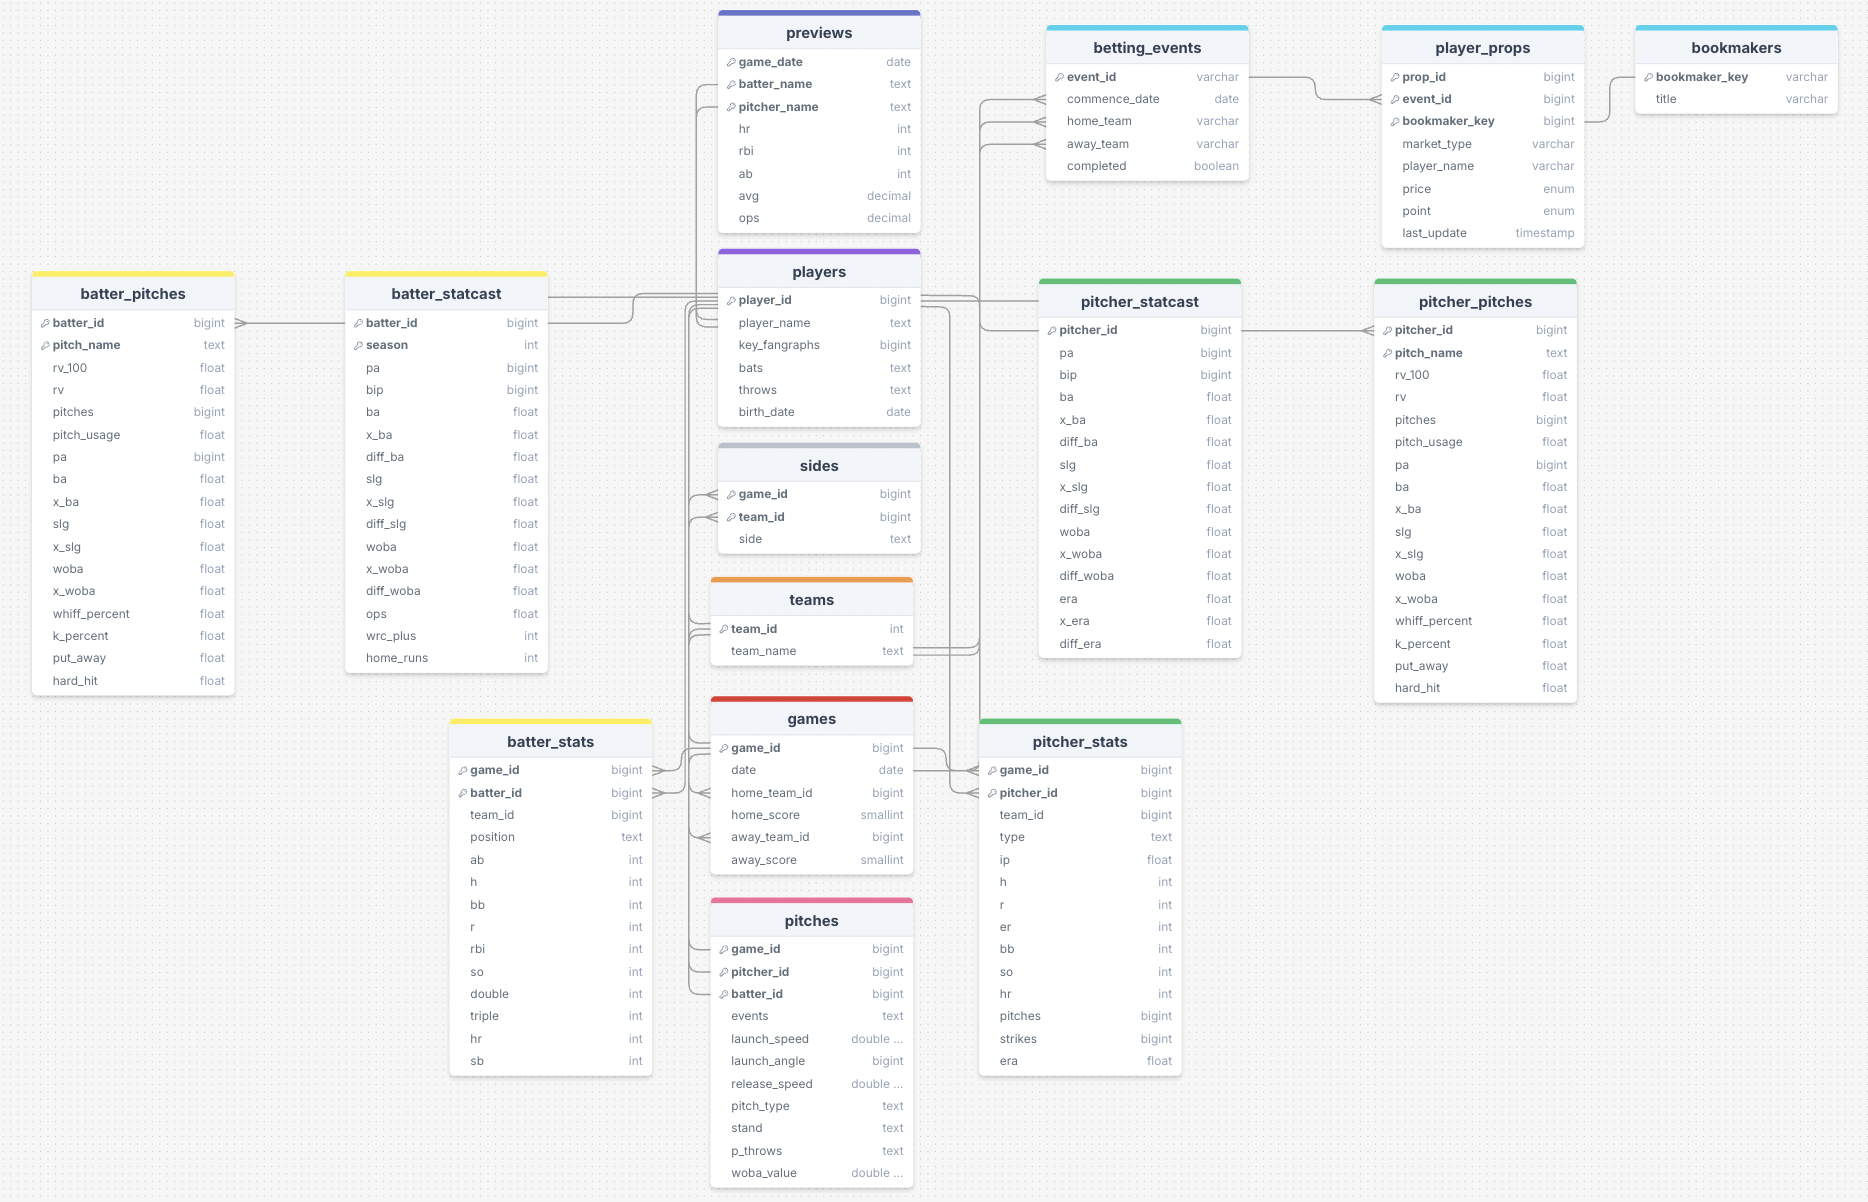
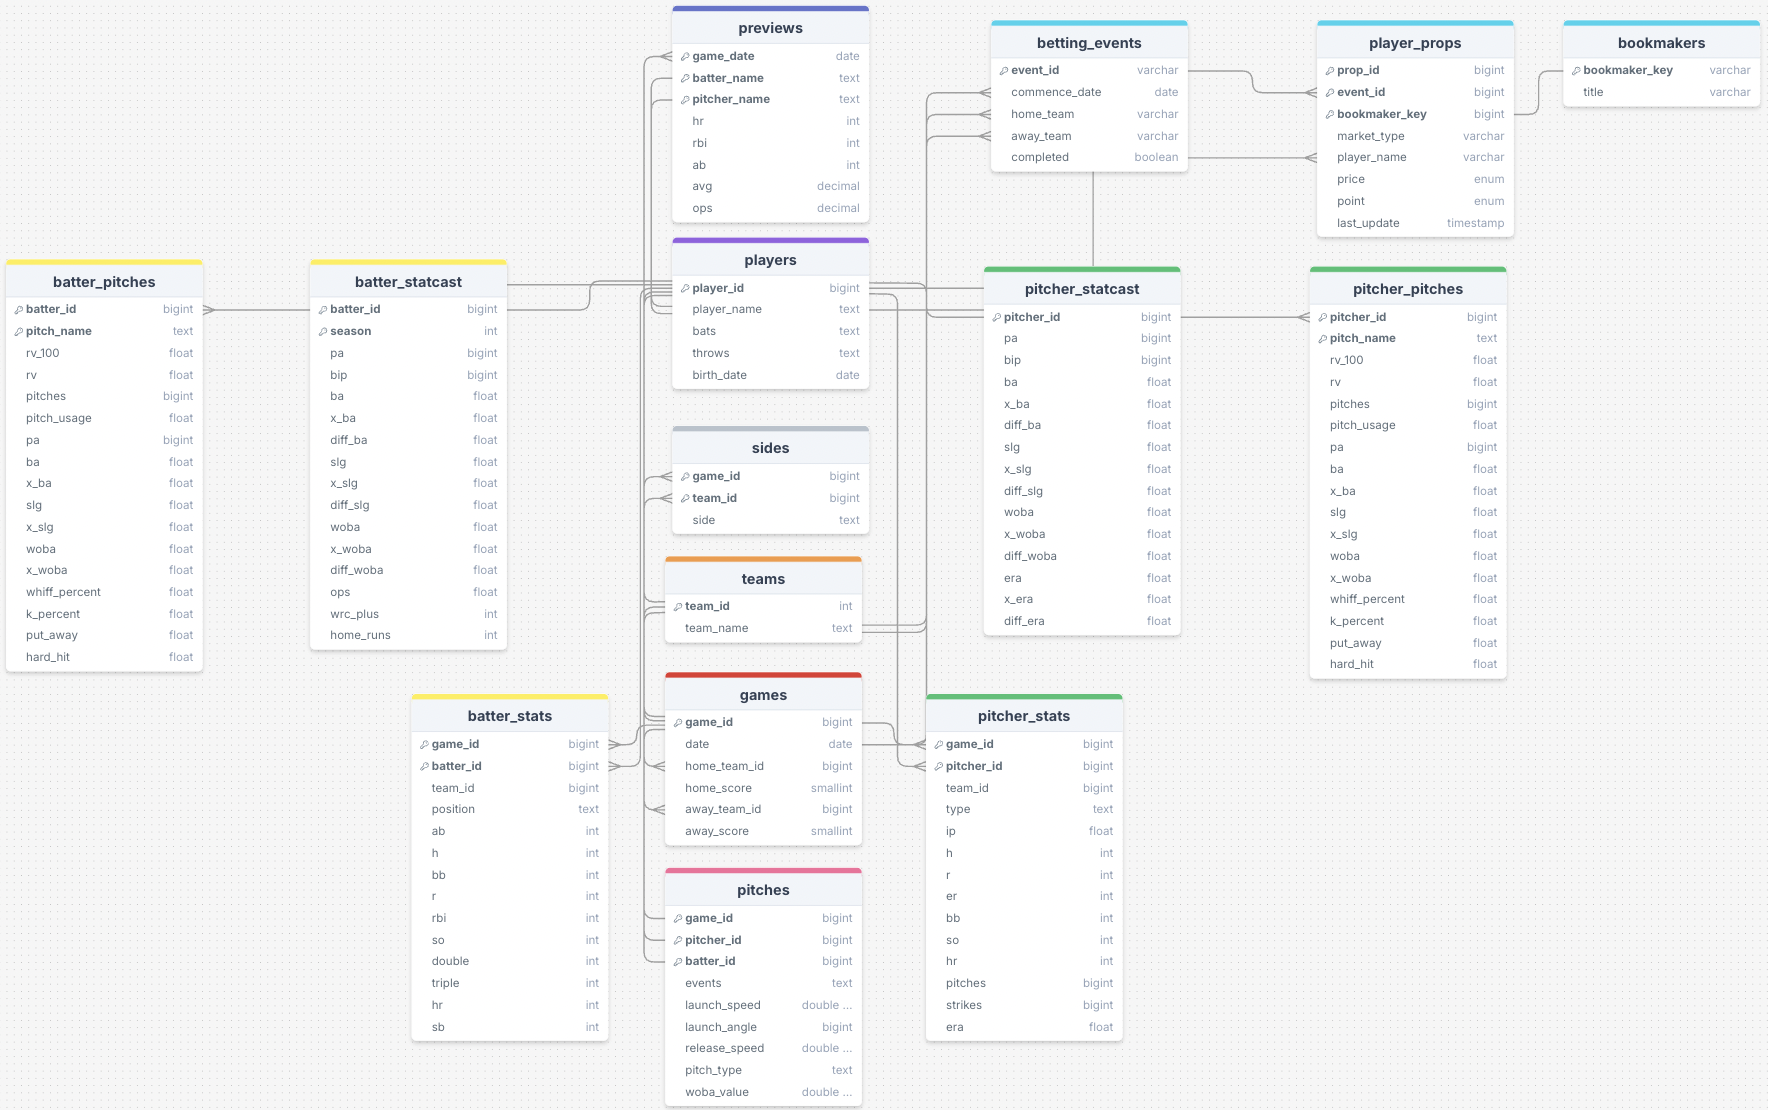
Built site for gh-pages

diff --git a/index.html b/index.html
@@ -72,6 +72,7 @@ div.csl-indent {
 <meta name="citation_reference" content="citation_title=A systematic review of machine learning in sports betting: Techniques, challenges, and future directions;,citation_abstract=Comprehensive review of ML applications in sports betting across multiple sports. Found that ensemble methods consistently outperform single models, with particular success in combining different algorithm types. For baseball specifically, identified that Markov processes and machine learning algorithms to predict pitch types and game outcomes show promise, emphasizing detailed pitch data importance.;,citation_author=René Manassé Galekwa;,citation_author=undefined colleagues;,citation_publication_date=2024;,citation_cover_date=2024;,citation_year=2024;,citation_fulltext_html_url=https://arxiv.org/html/2410.21484v1;,citation_journal_title=arXiv preprint arXiv:2410.21484;">
 <meta name="citation_reference" content="citation_title=MLB game outcome prediction using machine learning;,citation_abstract=Investigated MLB game outcome prediction using random forests and XGBoost with historical Retrosheet data (1930-2016). Achieved 55.52% accuracy in predicting game outcomes as binary classification using XGBoost with season data only, outperforming random guessing and simple home team prediction.;,citation_author=T. Elfrink;,citation_publication_date=2018;,citation_cover_date=2018;,citation_year=2018;,citation_publisher=University of Pennsylvania;">
 <meta name="citation_reference" content="citation_title=Efficient spread betting markets: A literature review;,citation_abstract=Are simple trading strategies profitable? It is a question that has been on the minds of academics and practitioners for decades. In this paper, we review the longstanding literature on trading strategies in spread betting (also known as handicap betting), a popular sports betting microstructure. We review over 600 strategy implementations and find that market efficiency and systematic misperceptions are not mutually exclusive per se. Predictable glitches occur, but they are too small to be profitably exploited which is consistent with efficient markets.;,citation_author=Jonas Vandenbruaene;,citation_author=Jan Annaert;,citation_author=Marc De Ceuster;,citation_publication_date=2022;,citation_cover_date=2022;,citation_year=2022;,citation_fulltext_html_url=https://journals.sagepub.com/doi/10.1177/15270025211071042;,citation_issue=4;,citation_doi=10.1177/15270025211071042;,citation_issn=1527-0025;,citation_volume=23;,citation_journal_title=Journal of Sports Economics;">
+<meta name="citation_reference" content="citation_title=Social and legal costs of compulsive gambling;,citation_abstract=This article examines the broader societal consequences of compulsive gambling, including legal costs, lost productivity, bankruptcies, and increased demand for social services. The authors estimate that a small proportion of problem gamblers are responsible for a disproportionate share of industry profits, reinforcing concerns about the ethics and sustainability of legalized gambling. The paper argues that policymakers and stakeholders must account for these externalities when evaluating the expansion of gambling markets.;,citation_author=William N. Thompson;,citation_author=Ricardo Gazel;,citation_author=Dan Rickman;,citation_publication_date=1996;,citation_cover_date=1996;,citation_year=1996;,citation_fulltext_html_url=https://www.researchgate.net/publication/249232485_Social_and_Legal_Costs_of_Compulsive_Gambling;,citation_issue=1;,citation_doi=10.1089/glr.1997.1.81;,citation_volume=1;,citation_journal_title=Gaming Law Review;">
 </head>
 
 <body class="quarto-light"><script id="quarto-html-before-body" type="application/javascript">
@@ -357,7 +358,7 @@ div.csl-indent {
 <h1>Introduction</h1>
 <p>A core principle of financial independence is the ability to generate passive income– leveraging existing capital to create returns with minimal ongoing effort. Traditional strategies include investing in dividend-paying stocks, exchange-traded funds (ETFs), or income-generating real estate. While these approaches offer relatively stable long-term gains, some investors have begun exploring alternative, higher-risk opportunities such as sports betting. Though more volatile, betting markets can offer the potential for faster and higher returns, raising the question: can a data-driven approach to betting, particularly in Major League Baseball (MLB), serve as a viable income stream?</p>
 <p>Baseball is a team sport played between two sides of nine players, where the goal is to score runs by hitting a pitched ball and advancing around four bases. Teams alternate between offense (batting) and defense (pitching and fielding), with each half-inning ending after three outs. A standard game consists of nine innings. While the rules are relatively simple, modern baseball is highly strategic and data-driven. Teams constantly analyze player matchups, pitching tendencies, and situational probabilities to gain an edge, which is exactly what makes the sport so appealing for sports betting as well.</p>
-<p>With the rise of advanced statistics and real-time data, bettors now have a wide range of wagering options. These include moneylines (who wins the game), over/unders (total runs scored), and player props like total bases, which track how many bases a player earns through hits in a given game. Despite the availablity of data, many sports bettors rely on gut and intuition but it has proved to be a losing strategy for most. Compounding this challenge is the fact that sportsbooks maintain a built-in edge through the way odds are structured. For example, even in an evenly matched game, both teams would be listed at -110 odds instead of +100. This means a $100 winning bet would return just $90.90 in profit, rather than $100, creating a margin that favors the sportsbook. Thus, users have to win more than 52.4% of their bets to just break even <span class="citation" data-cites="AllThePicksEdge2023">(<a href="#ref-AllThePicksEdge2023" role="doc-biblioref">Naomi 2023</a>)</span>.</p>
+<p>With the rise of advanced statistics and real-time data, bettors now have a wide range of wagering options. These include moneylines (who wins the game), over/unders (total runs scored), and player props like total bases, which track how many bases a player earns through hits in a given game. Despite the availablity of data, many sports bettors rely on gut and intuition but it has proved to be a losing strategy for most <span class="citation" data-cites="Thompson1996">(<a href="#ref-Thompson1996" role="doc-biblioref">Thompson, Gazel, and Rickman 1996</a>)</span>. Compounding this challenge is the fact that sportsbooks maintain a built-in edge through the way odds are structured. For example, even in an evenly matched game, both teams would be listed at -110 odds instead of +100. This means a $100 winning bet would return just $90.90 in profit, rather than $100, creating a margin that favors the sportsbook. Thus, users have to win more than 52.4% of their bets to just break even <span class="citation" data-cites="AllThePicksEdge2023">(<a href="#ref-AllThePicksEdge2023" role="doc-biblioref">Naomi 2023</a>)</span>.</p>
 <p>In this context, leveraging the vast amount of granular baseball data becomes crucial. With its rich statistical history and highly measurable in-game actions, baseball is one of the most analytically robust sports. It offers bettors an opportunity to apply data-driven strategies and models to gain an edge over the market.</p>
 <p>We aim to investigate whether recent player performance, historical trends, advanced metrics, and variations in sportsbook odds can be leveraged to identify profitable opportunities in Major League Baseball betting markets.</p>
 </section>
@@ -427,7 +428,7 @@ div.csl-indent {
 <h3 class="anchored" data-anchor-id="pybaseball">pybaseball</h3>
 <p>Our next source was the pybaseball Python package, which provided access to both MLB’s Statcast system and FanGraphs’ season-level statistics. This data enriched our dataset with advanced metrics such as batted ball tracking, pitch characteristics, and sabermetric indicators. Using pybaseball.statcast(), we collected pitch-level data spanning over a full season, which was then aggregated into player-game summaries. From FanGraphs, we retrieved seasonal statistics for both batters and pitchers, adding broader context around player performance.</p>
 <p>To unify these sources, we relied on the players table to bridge the differing identifier systems used by Statcast and FanGraphs. Using player_id’s, we were able to integrate detailed tracking data with season-level statistics across 537 unique players. This join enabled us to capture both granular and long-term perspectives on performance.</p>
-<p>Once collected, the data was processed into PostgreSQL using SQL-based transformations, similar to our statsapi pipeline. This structure supported efficient querying across pitch-level, game-level, and seasonal data, and laid the groundwork for downstream modeling and analysis.</p>
+<p>Only historical data was needed so our scraper ran once and the data collected was pushed into PostgreSQL. This structure supported efficient querying across pitch-level, game-level, and seasonal data, and laid the groundwork for downstream modeling and analysis.</p>
 </section>
 <section id="oddsapi" class="level3">
 <h3 class="anchored" data-anchor-id="oddsapi">oddsapi</h3>
@@ -1130,16 +1131,6 @@ pitches
 <td><code>pitch_type</code></td>
 <td>Pitch Type Code</td>
 <td>Abbreviated pitch type (FF=four-seam fastball, SL=slider, etc.).</td>
-</tr>
-<tr class="odd">
-<td><code>stand</code></td>
-<td>Batter Handedness</td>
-<td>L=left-handed batter, R=right-handed batter.</td>
-</tr>
-<tr class="even">
-<td><code>p_throws</code></td>
-<td>Pitcher Handedness</td>
-<td>L=left-handed pitcher, R=right-handed pitcher.</td>
 </tr>
 <tr class="odd">
 <td><code>woba_value</code></td>
@@ -1871,6 +1862,9 @@ Li, Shuo-Fang, Mei-Ling Huang, and Yi-Zhen Li. 2022. <span>“Exploring and Sele
 </div>
 <div id="ref-AllThePicksEdge2023" class="csl-entry" role="listitem">
 Naomi. 2023. <span>“The Sportsbook Edge: Understanding How the House Always Wins.”</span> <a href="https://allthepicks.com/betting-edge/">https://allthepicks.com/betting-edge/</a>.
+</div>
+<div id="ref-Thompson1996" class="csl-entry" role="listitem">
+Thompson, William N., Ricardo Gazel, and Dan Rickman. 1996. <span>“Social and Legal Costs of Compulsive Gambling.”</span> <em>Gaming Law Review</em> 1 (1): 81–89. <a href="https://doi.org/10.1089/glr.1997.1.81">https://doi.org/10.1089/glr.1997.1.81</a>.
 </div>
 <div id="ref-Vandenbruaene2022" class="csl-entry" role="listitem">
 Vandenbruaene, Jonas, Jan Annaert, and Marc De Ceuster. 2022. <span>“Efficient Spread Betting Markets: A Literature Review.”</span> <em>Journal of Sports Economics</em> 23 (4): 442–79. <a href="https://doi.org/10.1177/15270025211071042">https://doi.org/10.1177/15270025211071042</a>.
